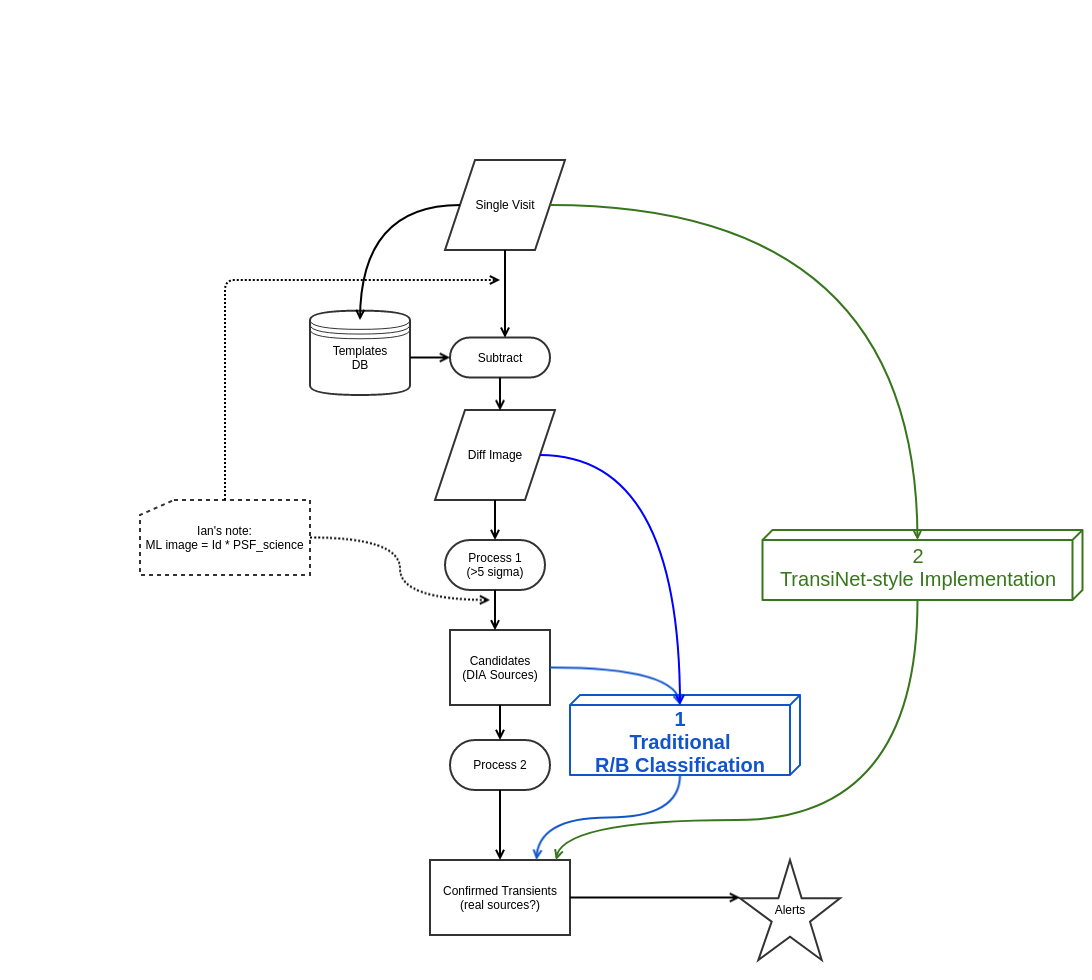
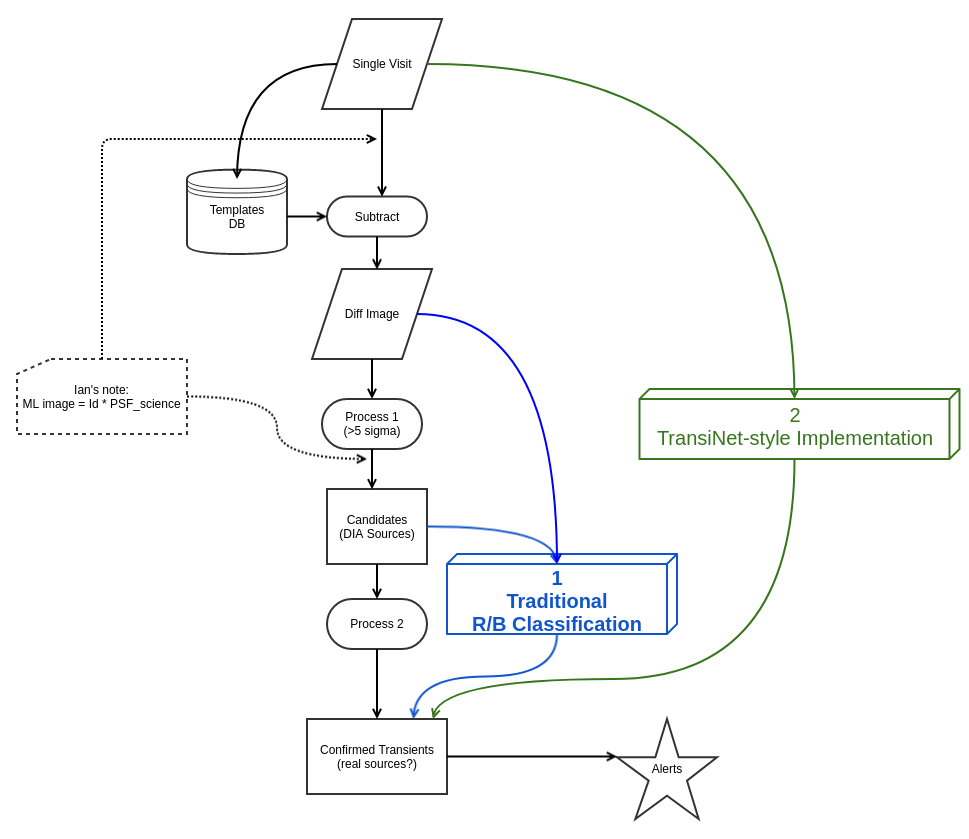
rearranged figures

diff --git a/body.tex b/body.tex
@@ -4,13 +4,28 @@ There are at least two approaches..
 \\- traditional r/b classification
 \\- modern (Transinet-style)\\
 
+\begin{figure}[h]
+  \centering
+  \includegraphics[width=.8\textwidth]{material/diagram}
+  \caption{Coarse illustration of information flow through the Alert Production (AP) pipeline. Paths in blue and green illustrate the ``traditional'' and ``modern'' approaches respectively.}
+  \label{fig:diagram}
+\end{figure}
+
+
 (see figure~\ref{fig:diagram})
 each with its own pros and cons..
 
 The two will be implemented and tested in parallel. Therefore we shall try to bring the two implementations close to eachother -- ideally unify.
 
 
-\subsection{Basic Real/Bogus Classification}
+\subsection{Basic Real/Bogus Classifier}
+
+\begin{figure}[h]
+  \centering
+  \includegraphics[width=.8\textwidth]{material/rb-classifier}
+  \caption{Classical Real/bogus classifier}
+  \label{fig:rbdiagram}
+\end{figure}
 
 \begin{itemize}
   \item input: cutouts from diff image with the potential transient at the center
@@ -36,7 +51,13 @@ It is foreseeable that the network will eventually learn a concept close to ``PS
 % \end{equation}
 
 
-\subsection{Modified Real/Bogus Classifier}
+\subsection{3D Real/Bogus Classifier}
+\begin{figure}[h]
+  \centering
+  \includegraphics[width=.8\textwidth]{material/rb-classifier-mod}
+  \caption{Classical Real/bogus classifier setup can be modified such that corresponding cutouts from template and science images are fed into the network too.}
+  \label{fig:rbdiagram}
+\end{figure}
 
 
 \subsection{TransiNet: End-to-End Simultaneous Localization and Classification}
@@ -54,26 +75,6 @@ There are bogus detections, variables, ``appearing transients''
 \end{equation}
 
 
-\begin{figure}
-  \centering
-  \includegraphics[width=1\textwidth]{material/diagram}
-  \caption{Coarse illustration of information flow through the Alert Production (AP) pipeline. Paths in blue and green illustrate the ``traditional'' and ``modern'' approaches respectively.}
-  \label{fig:diagram}
-\end{figure}
-
-\begin{figure}
-  \centering
-  \includegraphics[width=1\textwidth]{material/rb-classifier}
-  \caption{Classical Real/bogus classifier}
-  \label{fig:rbdiagram}
-\end{figure}
-
-\begin{figure}
-  \centering
-  \includegraphics[width=1\textwidth]{material/rb-classifier-mod}
-  \caption{Classical Real/bogus classifier setup can be modified such that corresponding cutouts from template and science images are fed into the network too.}
-  \label{fig:rbdiagram}
-\end{figure}
 
 
 % \section{Notes from the template}
